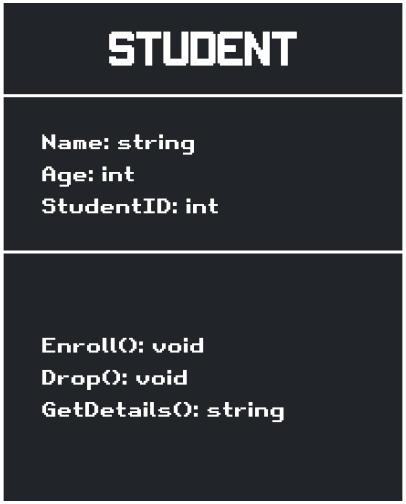
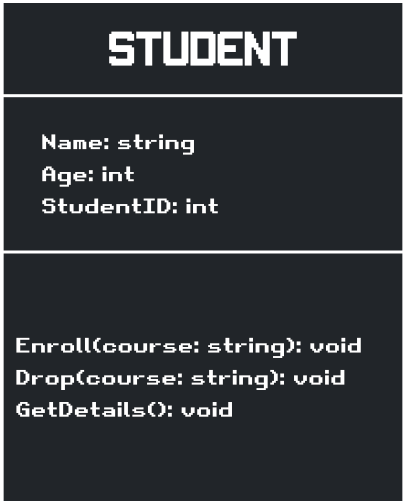
reformat class diagram example

Changed region(s): [[0.0296, 0.6548, 0.8867, 0.8631]]

diff --git a/src/pages/c-sharp-fundamentals/activities/5-2-intro-to-oop-pt2.md b/src/pages/c-sharp-fundamentals/activities/5-2-intro-to-oop-pt2.md
@@ -89,11 +89,29 @@ Class diagrams are a key part of object-oriented programming and are used to vis
 
 A class diagram is typically represented as a rectangle divided into these three sections.
 
+**Example Student Class**
+
+```cs
+class Student
+{
+    public string Name;
+    public int Age;
+    public int StudentId;
+
+    // code ommitted from methods
+    public void Enroll(string course) { }
+
+    public void Drop(string course) { }
+
+    public string GetDetails() { }
+}
+```
+
 <table class="table table-bordered text-center">
     <thead>
         <tr>
             <th>Class Diagram</th>
-            <th>Example: Simple Student Class
+            <th>Example: Student Class
         </tr>
     </thead>
     <tbody>
